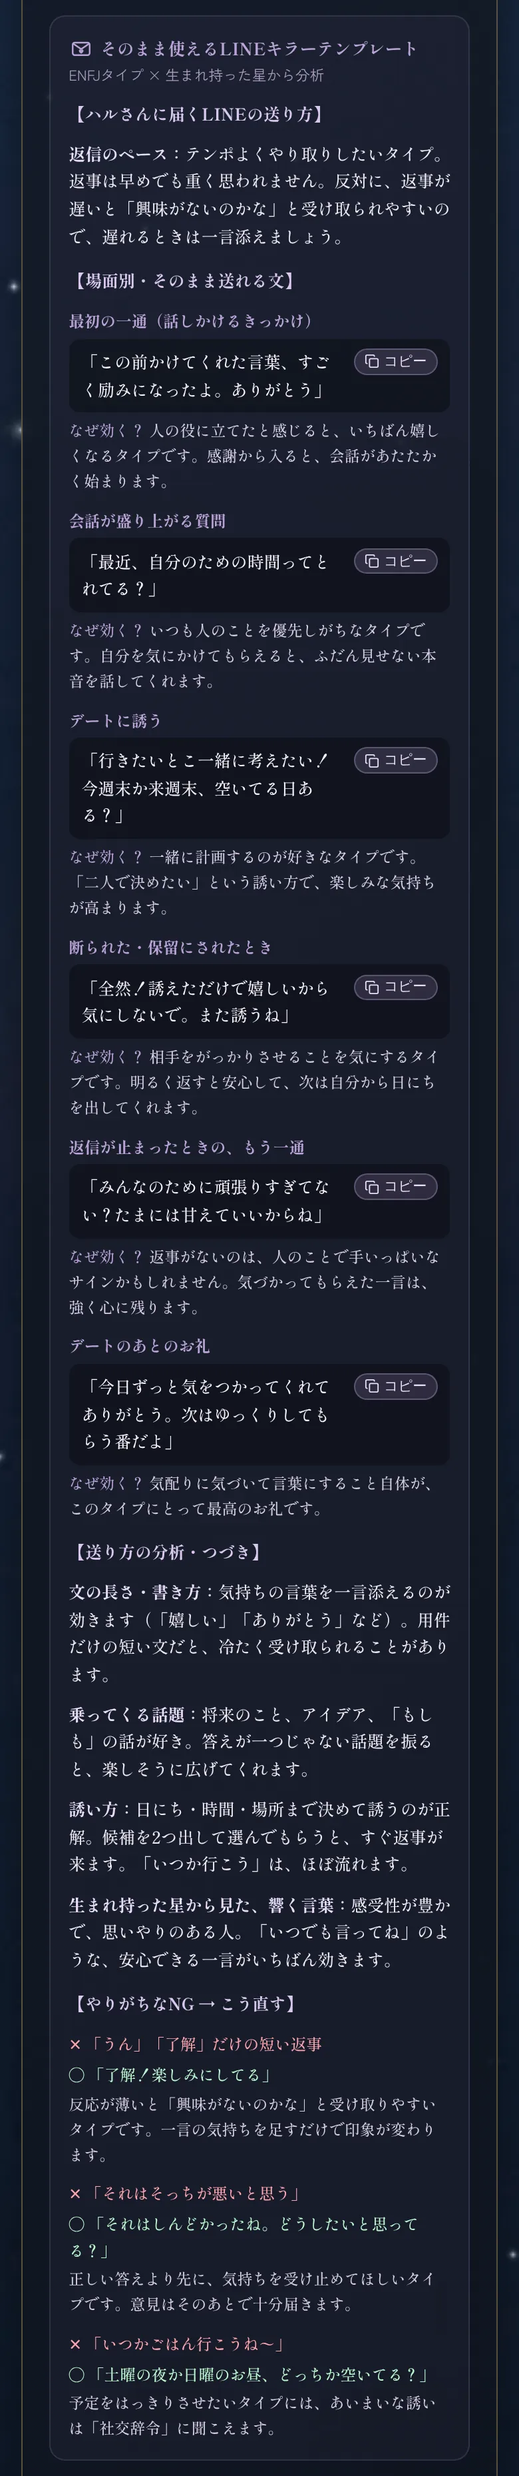
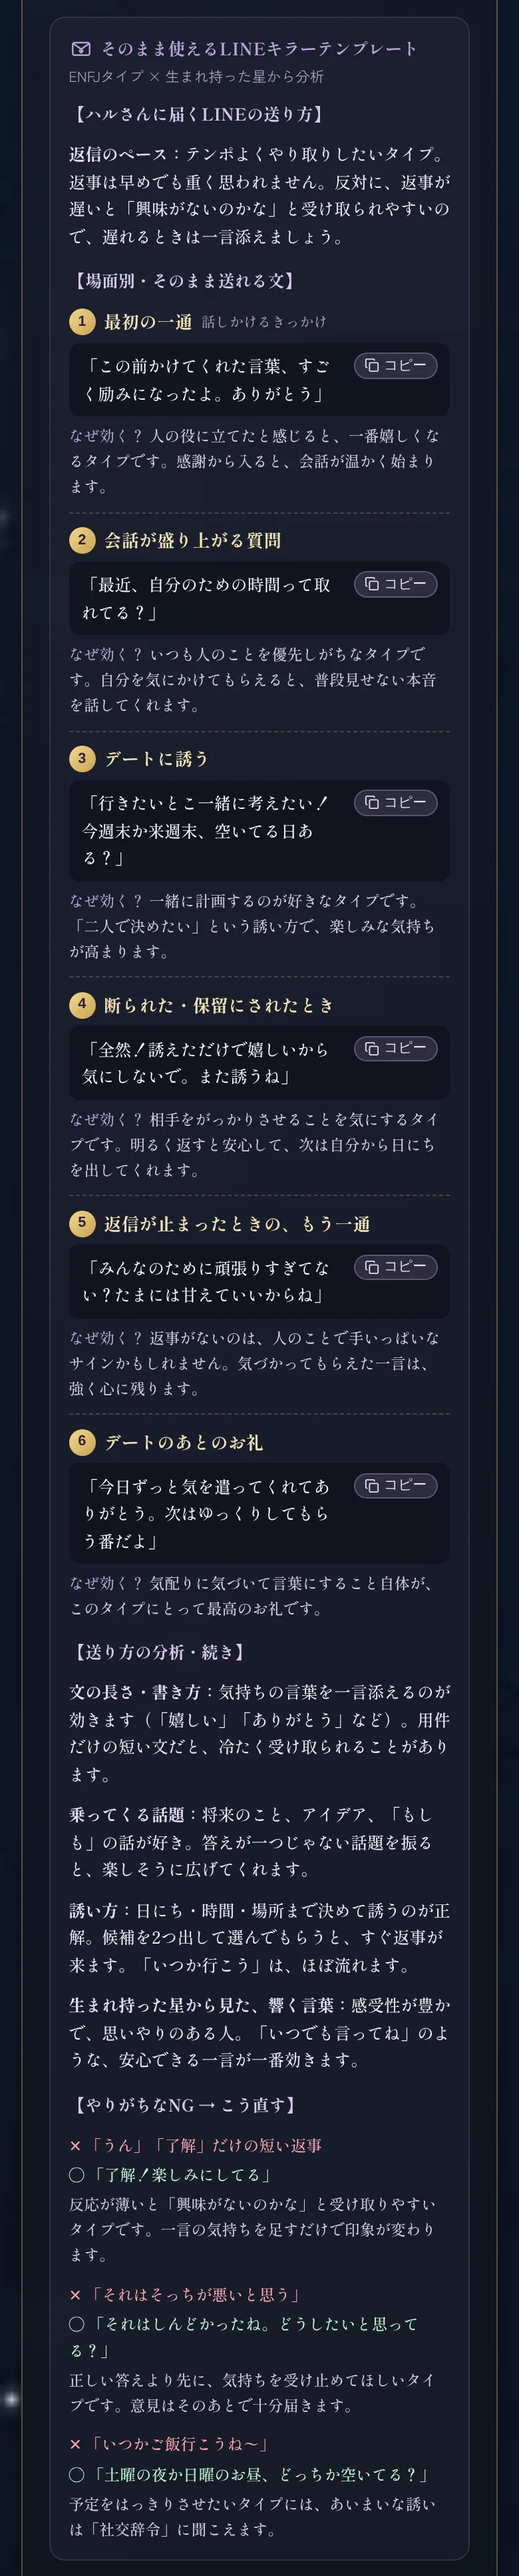
購入LPのLINEテンプレ画面イメージを新しい場面見出しで撮り直し＋番号の縦位置を中央に
Claude-Session: https://claude.ai/code/session_019582yB7JLa8BCT7AAvGRv7

diff --git a/src/components/LineKitSection.tsx b/src/components/LineKitSection.tsx
@@ -73,7 +73,7 @@ export const LineKitSection: React.FC<Props> = ({ kit, isSubscribed, onLockClick
     const sub = m ? m[2] : '';
     return (
       <div style={{ display: 'flex', alignItems: 'center', gap: '0.4rem', flexWrap: 'wrap' }}>
-        <span style={{ flexShrink: 0, width: '1.25rem', height: '1.25rem', borderRadius: '50%', background: 'linear-gradient(135deg, #f2d98f, #c9a24e)', color: '#2a1f3d', fontSize: '0.68rem', fontWeight: 'bold', display: 'inline-flex', alignItems: 'center', justifyContent: 'center', fontFamily: 'sans-serif' }}>{sceneNo(s.key)}</span>
+        <span style={{ flexShrink: 0, width: '1.25rem', height: '1.25rem', borderRadius: '50%', background: 'linear-gradient(135deg, #f2d98f, #c9a24e)', color: '#2a1f3d', fontSize: '0.68rem', fontWeight: 'bold', lineHeight: 1, display: 'inline-flex', alignItems: 'center', justifyContent: 'center', fontFamily: 'sans-serif' }}>{sceneNo(s.key)}</span>
         <span style={{ fontWeight: 'bold', color: '#f2e2b3', fontSize: '0.82rem', letterSpacing: '0.02em' }}>{main}</span>
         {sub && <span style={{ fontSize: '0.66rem', color: '#a99bbd' }}>{sub}</span>}
       </div>
